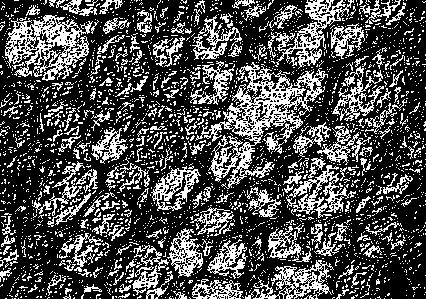
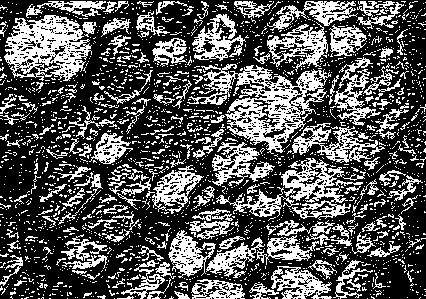
composition fixed

diff --git a/src/main/java/org/override/Splitter.java b/src/main/java/org/override/Splitter.java
@@ -22,9 +22,6 @@ public class Splitter {
     public static List<BufferedImage> split(BufferedImage image, int rows, int columns) {
         List<BufferedImage> list = new ArrayList<>();
 
-        // initializing array to hold subimages
-//        BufferedImage imgs[] = new BufferedImage[rows * columns];
-
         // Equally dividing original image into subimages
         int subimageWidth = image.getWidth() / columns;
         int subimageHeight = image.getHeight() / rows;
@@ -59,25 +56,14 @@ public class Splitter {
         BufferedImage composedImage = new BufferedImage(originalImage.getWidth(), originalImage.getHeight(), originalImage.getType());
         Graphics2D imgCreator = composedImage.createGraphics();
 
-
-//        imgCreator.drawImage(peace, 0, 0, peace.getWidth(), peace.getHeight(), 0, 0, peace.getWidth(), peace.getHeight(), null);
-//426
-//299
-        //todo пофиксить математику
         int i = 0;
         int j = 0;
         for (int k = 0; k < bufferedImages.size(); k++) {
             int subimageWidth = bufferedImages.get(k).getWidth();
             int subimageHeight = bufferedImages.get(k).getHeight();
-            // coordinates of source image
-            int srcFirstX = subimageWidth * j;
-            int srcFirstY = subimageHeight * i;
+            int srcFirstX = subimageWidth * i;
+            int srcFirstY = subimageHeight * j;
 
-            // coordinates of sub-image
-            int dstCornerX = subimageWidth * j + subimageWidth;
-            int dstCornerY = subimageHeight * i + subimageHeight;
-//            imgCreator.drawImage(composedImage, 0, 0, subimageWidth, subimageHeight, srcFirstX, srcFirstY, dstCornerX, dstCornerY, null);
-//            imgCreator.drawImage(bufferedImages.get(k), 0, 0, subimageWidth, subimageHeight, srcFirstX, srcFirstY, srcFirstX + subimageWidth, srcFirstY + subimageHeight, null);
             imgCreator.drawImage(bufferedImages.get(k),  srcFirstX, srcFirstY, srcFirstX + subimageWidth, srcFirstY + subimageHeight,0, 0, subimageWidth, subimageHeight, null);
             i++;
             if (i == columns) {

diff --git a/src/main/java/org/override/Main.java b/src/main/java/org/override/Main.java
@@ -10,6 +10,7 @@ import java.awt.image.BufferedImage;
 import java.awt.image.ColorModel;
 import java.awt.image.WritableRaster;
 import java.io.File;
+import java.lang.reflect.Field;
 import java.util.ArrayList;
 import java.util.List;
 import java.util.stream.Collectors;
@@ -26,8 +27,9 @@ public class Main {
     @SneakyThrows
     public static void main(String[] args) {
 
-        BufferedImage image = ImageToPixels.getImage("C:\\Users\\ПК\\IdeaProjects\\titanat\\src\\main\\resources\\emboss2.jpg");
+        BufferedImage image = ImageToPixels.getImage("C:\\Users\\ПК\\IdeaProjects\\titanat\\src\\main\\resources\\photo_2023-03-13_19-43-29.jpg");
 
+        image = Filter.emboss(image);
         int rows = 3;
         int columns = 3;
         List<BufferedImage> splited = Splitter.split(image, rows, columns);

diff --git a/src/main/java/org/override/Filter.java b/src/main/java/org/override/Filter.java
@@ -32,12 +32,9 @@ public class Filter {
     public static BufferedImage emboss(BufferedImage image) {
         Kernel kernel = new Kernel(3, 3,
                 new float[]{
-
-                        -1, 0, 0,
-
+                        -2, 0, -1,
                         0, 1, 0,
-
-                        0, 0, 2});
+                        1, 0, 2});
 
         BufferedImageOp op = new ConvolveOp(kernel);
         BufferedImage embossedBufferedImage = ImageToPixels.deepCopy(image);
